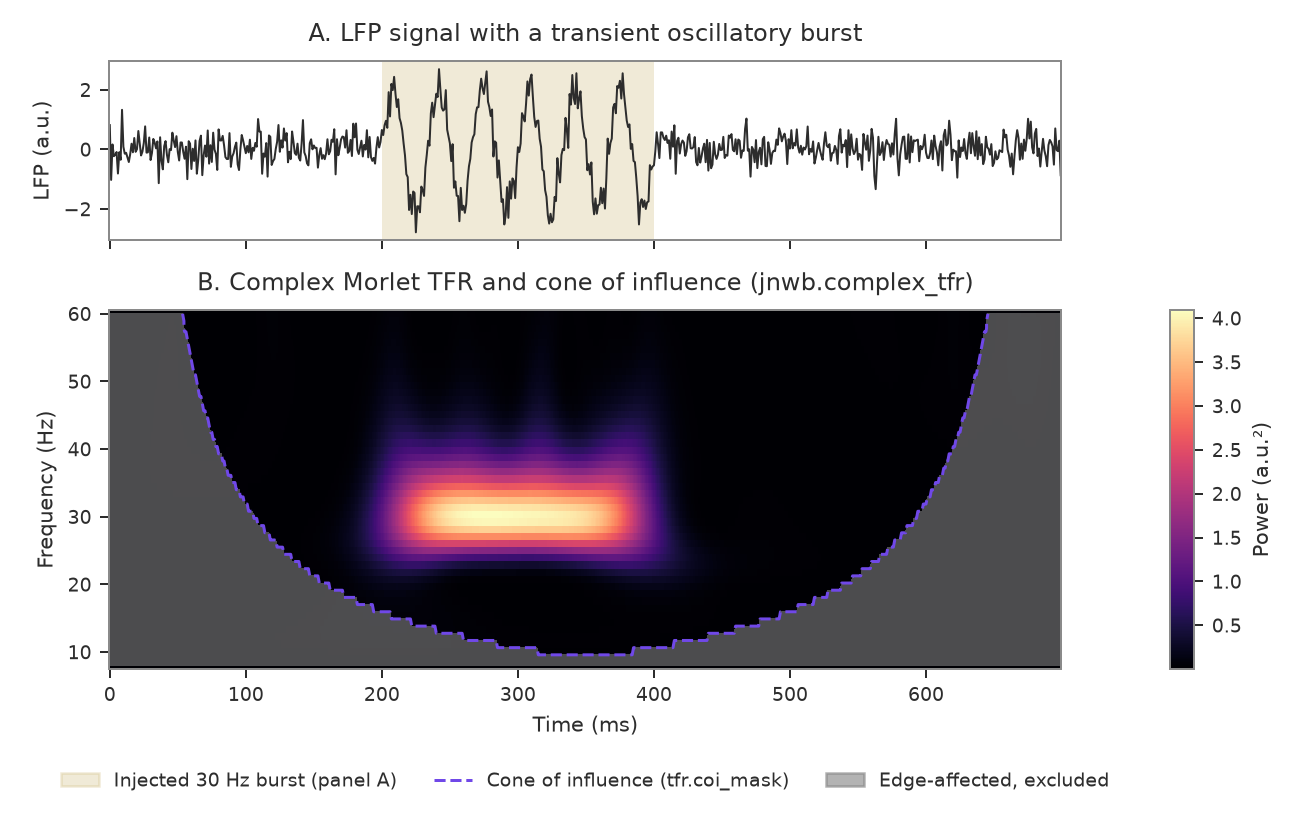
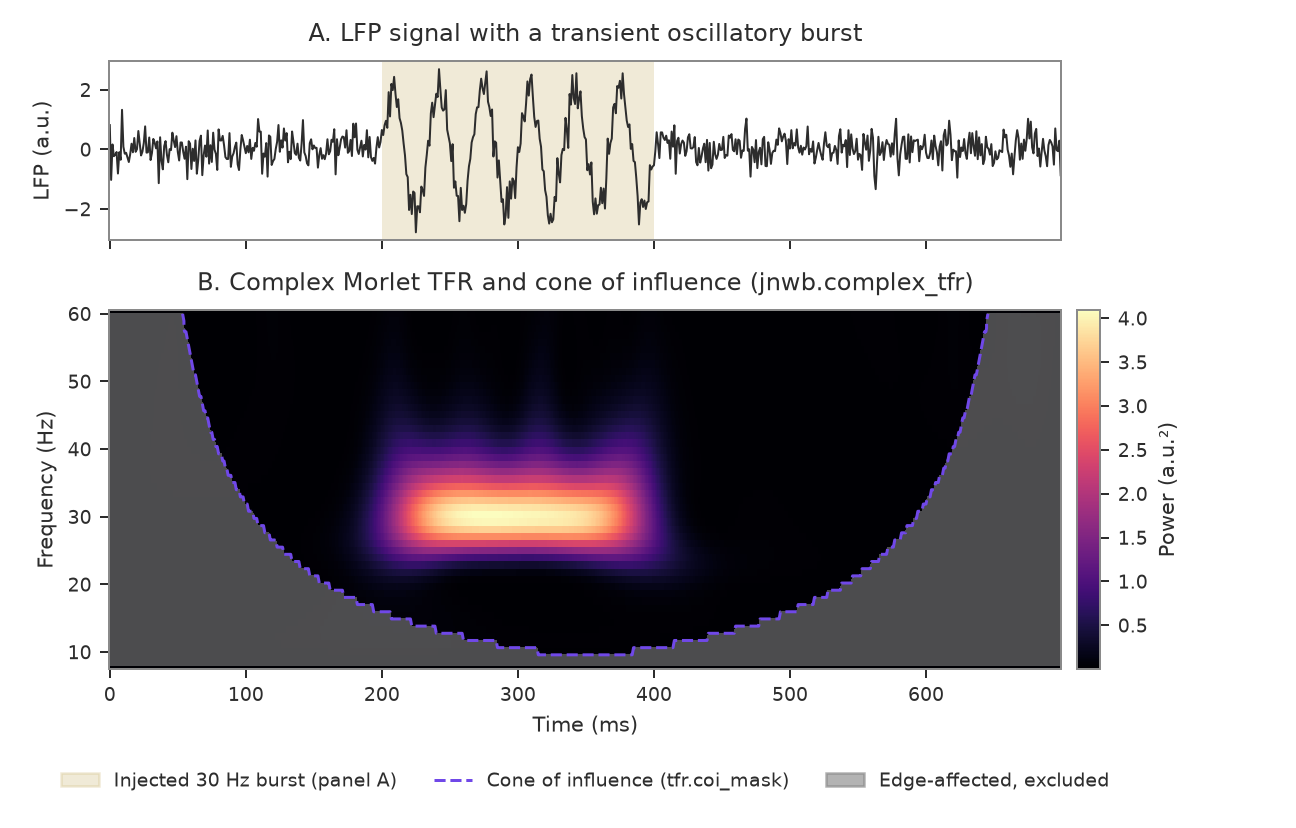
docs figures: shade the PSI bins the net value sums, link thumbnails to their pages
- fig09 shades the first to the last spectral bin inside the band, taken from the
  function's own frequencies, instead of the band's nominal edges. The points under the
  shading now sum to the net PSI (+0.563); under the old shading they summed to 0.694. A new
  test fails on the old shading.
- Each gallery thumbnail links to the topic page that shows its figure in the reader's theme.
  The raw PNG is transparent and a browser opens it on its own grey, where the dark variant's
  text is unreadable. The displayed-size rule counts a thumbnail at page width only for such a
  link, and a raw link to a figure fails the variant check again.
- docs/09 names nested_cv_linear_svm and says chance is drawn for AUC; that expected failure
  is cleared.
- The declared-unit check reads every line and every bar set; the two exclusions silenced no
  case.
- fig01 labels both panels "Channel index"; fig04 names the frequency it draws to and spaces
  "slope = -2.04".
- fig10 panel A stacks every channel of the contaminated trial, so it no longer repeats
  panel B; the fig05 colorbar sits next to the TFR it keys.

PNGs redrawn with Matplotlib 3.11.2.

Changed region(s): [[0.8333, 0.3623, 0.9877, 0.8152]]

diff --git a/tests/test_figure_form.py b/tests/test_figure_form.py
@@ -479,13 +479,10 @@ def _declared_unit_failures(fig, results) -> list[str]:
     declared = [r for r in results if isinstance(getattr(r, "unit", None), str)]
     hits = []
     for index, ax in enumerate(fig.axes):
-        # Lines drawn in data coordinates only: a reference line's ydata is in axes fractions.
-        drawn = [np.asarray(line.get_ydata(), float) for line in ax.get_lines()
-                 if line.get_transform() == ax.transData]
+        drawn = [np.asarray(line.get_ydata(), float) for line in ax.get_lines()]
         drawn = [y for y in drawn if y.size > 1 and np.ptp(y) > 0]
         bars = np.asarray([p.get_height() for p in ax.patches if isinstance(p, Rectangle)], float)
-        # Whole-number heights are counts, as in a histogram, not an estimate a result declares.
-        if bars.size and not np.all(bars == np.round(bars)):
+        if bars.size:
             drawn.append(bars)
         for r in declared:
             if any(np.isin(y, arr).all() for y in drawn for arr in _values(r) if arr.size):
@@ -798,8 +795,6 @@ AWAITING: dict[tuple[str, str], str] = {
     ("displayed size", "quickstart.md:jnwb_quickstart.png"): "5.8 pt text in an 11 in figure",
     ("style source", "quickstart_jnwb.py"): "a serif family and sizes typed per call",
     ("captions", "quickstart.md:jnwb_quickstart.png"): "the caption names no function",
-    ("captions", "09_decoding_and_visual_qc.md:fig07_population_decoding.png"):
-        "the caption does not name nested_cv_linear_svm",
 }
 
 
@@ -808,14 +803,26 @@ def _cases(check: str, names=NAMES):
             if (check, n) in AWAITING else pytest.param(n, id=n) for n in names]
 
 
+def _links_to_page_showing(href: str | None, stem: str) -> bool:
+    """A thumbnail counts at page width only when it links to the built page (`<page>/`) that
+    shows the same figure at page width in the reader's theme. A link to the PNG itself opens
+    it on the browser's own background, where one of the two variants is unreadable."""
+    if not href or not re.fullmatch(r"[\w-]+/", href):
+        return False
+    page = DOCS / f"{href[:-1]}.md"
+    return page.is_file() and bool(
+        re.search(rf"^!\[[^\]]*\]\({re.escape(stem)}\.png#only-light\)$",
+                  page.read_text(encoding="utf-8"), re.M))
+
+
 def _embeds():
     """Each light-scheme figure on a page: (page, figure file name, displayed width, caption)."""
     out = []
     for page in sorted(DOCS.rglob("*.md")):
         text = page.read_text(encoding="utf-8")
         captions = dict(figure_captions(text))
-        for match in re.finditer(r'(<a href="[^"]+">\s*)?<img src="(assets/[^"]+?)\.png#only-light"', text):
-            linked = bool(match.group(1))
+        for match in re.finditer(r'(?:<a href="([^"]+)">\s*)?<img src="(assets/[^"]+?)\.png#only-light"', text):
+            linked = _links_to_page_showing(match.group(1), match.group(2))
             in_table = text.rfind("<table", 0, match.start()) > text.rfind("</table>", 0, match.start())
             width = PAGE_WIDTH_PX if linked or not in_table else GALLERY_WIDTH_PX
             out.append((page.name, Path(match.group(2)).name + ".png", width,
@@ -869,7 +876,6 @@ def test_every_figure_on_a_page_has_both_variants():
         for page in sorted(DOCS.rglob("*.md"))
         for m in re.findall(r"[(\"](assets/(?:figures/[^)\s\"#]+|jnwb_quickstart[^)\s\"#]*)\.png)[)\"]",
                             page.read_text(encoding="utf-8"))
-        if not re.search(rf'<a href="{re.escape(m)}">', page.read_text(encoding="utf-8"))
     ]
     assert not bare, f"a figure shown the same under both schemes: {bare}"
 
@@ -1329,8 +1335,43 @@ def test_the_power_law_line_is_the_fit_of_the_spectrum_under_it(drawn):
     slope, intercept = np.polyfit(np.log10(fit_f), np.log10(at), 1)
     offset = np.max(np.abs(np.log10(fit) - (intercept + slope * np.log10(fit_f))))
     assert offset < 1e-6, f"the fit line is {offset:.3f} decades from the drawn spectrum's fit"
-    printed = float(re.search(r"slope=(-?\d+\.\d+)", lines["Power-law fit"].get_label()).group(1))
+    printed = float(re.search(r"slope\s*=\s*(-?\d+\.\d+)", lines["Power-law fit"].get_label()).group(1))
     assert printed == pytest.approx(slope, abs=0.005), (printed, slope)
+
+
+def _shaded_sum(ax, line):
+    """The drawn span labelled as summed, and the sum of the line's points inside it."""
+    spans = [p for p in ax.patches if p.get_label().startswith("Summed")]
+    assert len(spans) == 1, [p.get_label() for p in ax.patches]
+    xs = spans[0].get_path().transformed(spans[0].get_patch_transform()).vertices[:, 0]
+    x, y = (np.asarray(v, float) for v in line.get_data())
+    inside = (x >= xs.min()) & (x <= xs.max())
+    return float(y[inside].sum())
+
+
+def test_the_psi_shading_covers_exactly_the_bins_the_net_value_sums(drawn):
+    entry = drawn["fig09_directed_connectivity.png"]
+    ax = _axes_titled(entry.fig, "phase_slope_index")
+    psi = next(out for name, out in entry.calls["fig09_directed_connectivity"]
+               if name == "phase_slope_index")
+    line = next(ln for ln in ax.get_lines() if ln.get_label().startswith("Net PSI"))
+    assert _shaded_sum(ax, line) == pytest.approx(psi.x_to_y, abs=1e-9), (
+        "the points under the shading do not sum to the net PSI the function returned")
+
+
+def test_the_psi_shading_check_catches_the_nominal_band_edges(drawn):
+    entry = drawn["fig09_directed_connectivity.png"]
+    ax = _axes_titled(entry.fig, "phase_slope_index")
+    line = next(ln for ln in ax.get_lines() if ln.get_label().startswith("Net PSI"))
+    psi = next(out for name, out in entry.calls["fig09_directed_connectivity"]
+               if name == "phase_slope_index")
+    fig, wide = plt.subplots()
+    wide.plot(*line.get_data())
+    wide.axvspan(*psi.per_band["band"]["band_hz"], label="Summed band")
+    try:
+        assert _shaded_sum(wide, wide.get_lines()[0]) != pytest.approx(psi.x_to_y, abs=1e-3)
+    finally:
+        plt.close(fig)
 
 
 def test_the_psi_axis_carries_no_phase_slope_unit(drawn):

diff --git a/docs/generate_figures.py b/docs/generate_figures.py
@@ -115,7 +115,7 @@ def fig01_addressing():
         area = mapped_areas[i]
         ax1.annotate(f"Channels {i}-{i + 7}: {area}", xy=(0.12, i + 3.5), va="center",
                      fontsize=style.SMALL, color=C_DARK)
-    ax1.set_ylabel("Electrode contact index")
+    ax1.set_ylabel("Channel index")
     ax1.set_title("A. Area per contact\n(jnwb.map_peak_channel_to_area)", pad=8)
     ax1.invert_yaxis()
 
@@ -229,6 +229,8 @@ def fig03_onset():
 
 #: The rhythm fig04 adds to its aperiodic background.
 FIG04_RHYTHM_HZ = 10.0
+#: The highest frequency fig04 draws its spectrum to.
+FIG04_SHOWN_HZ = 119.0
 
 
 def fig04_spectral_tilt():
@@ -266,9 +268,10 @@ def fig04_spectral_tilt():
     f_fit = freqs[mask]
     fitted_psd = 10.0 ** (fit.offset - fit.exponent * np.log10(f_fit))
 
-    ax2.loglog(freqs[:119], psd[:119], color=C_GRAY, lw=1.0, label="Welch PSD")
+    shown = freqs <= FIG04_SHOWN_HZ
+    ax2.loglog(freqs[shown], psd[shown], color=C_GRAY, lw=1.0, label="Welch PSD")
     ax2.loglog(f_fit, fitted_psd, color=C_VIOLET, lw=1.8,
-               label=f"Power-law fit: slope={-fit.exponent:.2f}\n(R² = {fit.r_squared:.2f})")
+               label=f"Power-law fit: slope = {-fit.exponent:.2f}\n(R² = {fit.r_squared:.2f})")
     ax2.set_xlabel("Frequency (Hz)")
     ax2.set_ylabel("Power spectral density (a.u.²/Hz)")
     ax2.set_title("B. Aperiodic fit (jnwb.aperiodic_fit)", pad=8)
@@ -329,6 +332,9 @@ def fig05_complex_tfr():
     ], frameon=False, loc="upper center", bbox_to_anchor=(0.5, -0.24), ncol=3)
 
     fig.tight_layout()
+    # tight_layout spaces the colorbar column like a panel; close it up to the TFR it keys.
+    tfr_box = ax2.get_position()
+    cax.set_position([tfr_box.x1 + 0.012, tfr_box.y0, 0.018, tfr_box.height])
     _save(fig, "fig05_complex_tfr_coi.png")
     plt.close(fig)
 
@@ -532,9 +538,13 @@ def fig09_directed_connectivity():
     psi_freqs = psi.spectrum["psi_freqs"]
     psi_spec = psi.spectrum["psi_per_freq"]
     mask = (psi_freqs >= 5.0) & (psi_freqs <= 50.0)
-
-    ax2.axvspan(*PSI_BAND, color=C_GOLD, alpha=0.2, lw=0,
-                label=f"Summed band ({PSI_BAND[0]:.0f}-{PSI_BAND[1]:.0f} Hz)")
+    # The net value sums the slope terms between adjacent spectral bins inside the band, so the
+    # shading spans the first to the last of those bins, not the band's nominal edges.
+    f_lo, f_hi = psi.per_band["band"]["band_hz"]
+    freqs = psi.spectrum["freqs"]
+    summed = freqs[(freqs >= f_lo) & (freqs <= f_hi)]
+    ax2.axvspan(summed[0], summed[-1], color=C_GOLD, alpha=0.2, lw=0,
+                label=f"Summed bins ({summed[0]:.1f}–{summed[-1]:.1f} Hz)")
     ax2.plot(psi_freqs[mask], psi_spec[mask], color=C_VIOLET, lw=1.5, marker="o", ms=3.5,
              label=f"Net PSI = {psi.x_to_y:+.3f} (positive: X leads Y)")
     ax2.axhline(0, color=C_GRAY, ls="--", lw=0.8)
@@ -573,14 +583,17 @@ def fig10_artifact_repair():
     y_lim = (y_lo - 2.0, y_hi + 0.08 * (y_hi - y_lo))
     y_ticks = np.arange(0.0, y_hi, 10.0)
 
-    # Panel A: one channel of the contaminated trial
-    ax1.plot(t, raw, color=C_RED, lw=1.0, label="Raw (contaminated), channel 0")
+    # Panel A: every channel of the contaminated trial, stacked, so the artifact reads as
+    # synchronous across channels, which is what the detector scores
+    spacing = 1.2 * (y_hi - y_lo)
+    for ch in range(n_ch):
+        ax1.plot(t, seg[HIT_TRIAL, ch] + ch * spacing, color=C_RED, lw=0.8,
+                 label="Raw (contaminated), one trace per channel" if ch == 0 else None)
     ax1.set_xlabel("Time (ms)")
-    ax1.set_ylabel("LFP (a.u.)")
+    ax1.set_ylabel("Channel index")
+    ax1.set_yticks(np.arange(n_ch) * spacing, [str(ch) for ch in range(n_ch)])
     ax1.set_title(f"A. Injected synchronous artifact\n(trial {HIT_TRIAL}, "
                   f"peak z = {diag['synchrony_z_max']:.0f})", pad=8)
-    ax1.set_ylim(*y_lim)
-    ax1.set_yticks(y_ticks)
     ax1.legend(frameon=False, loc="upper center", bbox_to_anchor=(0.5, -0.2))
 
     # Panel B: the same channel before and after repair

diff --git a/docs/index.md b/docs/index.md
@@ -62,37 +62,37 @@ Synthetic, deterministic examples generated by `docs/generate_figures.py` from p
 <table>
   <tr>
     <td align="center" width="50%">
-      <a href="assets/figures/fig10_artifact_repair.png"><img src="assets/figures/fig10_artifact_repair.png#only-light" alt="Artifact repair" width="100%"></a>
-      <a href="assets/figures/fig10_artifact_repair.dark.png"><img src="assets/figures/fig10_artifact_repair.dark.png#only-dark" alt="Artifact repair" width="100%"></a>
+      <a href="05_artifact_detection_and_repair/"><img src="assets/figures/fig10_artifact_repair.png#only-light" alt="Artifact repair" width="100%"></a>
+      <a href="05_artifact_detection_and_repair/"><img src="assets/figures/fig10_artifact_repair.dark.png#only-dark" alt="Artifact repair" width="100%"></a>
       <sub>Artifact detection and trial repair (<code>repair_lfp_trials</code>)</sub>
     </td>
     <td align="center" width="50%">
-      <a href="assets/figures/fig05_complex_tfr_coi.png"><img src="assets/figures/fig05_complex_tfr_coi.png#only-light" alt="Complex TFR with COI" width="100%"></a>
-      <a href="assets/figures/fig05_complex_tfr_coi.dark.png"><img src="assets/figures/fig05_complex_tfr_coi.dark.png#only-dark" alt="Complex TFR with COI" width="100%"></a>
+      <a href="04_spectral_analysis_and_tfr/"><img src="assets/figures/fig05_complex_tfr_coi.png#only-light" alt="Complex TFR with COI" width="100%"></a>
+      <a href="04_spectral_analysis_and_tfr/"><img src="assets/figures/fig05_complex_tfr_coi.dark.png#only-dark" alt="Complex TFR with COI" width="100%"></a>
       <sub>Morlet TFR and cone of influence (<code>complex_tfr</code>)</sub>
     </td>
   </tr>
   <tr>
     <td align="center" width="50%">
-      <a href="assets/figures/fig09_directed_connectivity.png"><img src="assets/figures/fig09_directed_connectivity.png#only-light" alt="Directed connectivity" width="100%"></a>
-      <a href="assets/figures/fig09_directed_connectivity.dark.png"><img src="assets/figures/fig09_directed_connectivity.dark.png#only-dark" alt="Directed connectivity" width="100%"></a>
+      <a href="08_directed_connectivity_and_information/"><img src="assets/figures/fig09_directed_connectivity.png#only-light" alt="Directed connectivity" width="100%"></a>
+      <a href="08_directed_connectivity_and_information/"><img src="assets/figures/fig09_directed_connectivity.dark.png#only-dark" alt="Directed connectivity" width="100%"></a>
       <sub>Directed connectivity (<code>granger</code>, <code>phase_slope_index</code>)</sub>
     </td>
     <td align="center" width="50%">
-      <a href="assets/figures/fig03_onset_fitting.png"><img src="assets/figures/fig03_onset_fitting.png#only-light" alt="Onset fitting" width="100%"></a>
-      <a href="assets/figures/fig03_onset_fitting.dark.png"><img src="assets/figures/fig03_onset_fitting.dark.png#only-dark" alt="Onset fitting" width="100%"></a>
+      <a href="06_spikes_psth_and_onset_dynamics/"><img src="assets/figures/fig03_onset_fitting.png#only-light" alt="Onset fitting" width="100%"></a>
+      <a href="06_spikes_psth_and_onset_dynamics/"><img src="assets/figures/fig03_onset_fitting.dark.png#only-dark" alt="Onset fitting" width="100%"></a>
       <sub>Exponential onset fit (<code>fit_exponential_onset</code>)</sub>
     </td>
   </tr>
   <tr>
     <td align="center" width="50%">
-      <a href="assets/figures/fig08_permutation_null.png"><img src="assets/figures/fig08_permutation_null.png#only-light" alt="Permutation null" width="100%"></a>
-      <a href="assets/figures/fig08_permutation_null.dark.png"><img src="assets/figures/fig08_permutation_null.dark.png#only-dark" alt="Permutation null" width="100%"></a>
+      <a href="07_statistical_inference_and_nulls/"><img src="assets/figures/fig08_permutation_null.png#only-light" alt="Permutation null" width="100%"></a>
+      <a href="07_statistical_inference_and_nulls/"><img src="assets/figures/fig08_permutation_null.dark.png#only-dark" alt="Permutation null" width="100%"></a>
       <sub>Sign-flip null (<code>exact_sign_flip</code>, <code>permute_labels</code>)</sub>
     </td>
     <td align="center" width="50%">
-      <a href="assets/figures/fig07_population_decoding.png"><img src="assets/figures/fig07_population_decoding.png#only-light" alt="Population decoding" width="100%"></a>
-      <a href="assets/figures/fig07_population_decoding.dark.png"><img src="assets/figures/fig07_population_decoding.dark.png#only-dark" alt="Population decoding" width="100%"></a>
+      <a href="09_decoding_and_visual_qc/"><img src="assets/figures/fig07_population_decoding.png#only-light" alt="Population decoding" width="100%"></a>
+      <a href="09_decoding_and_visual_qc/"><img src="assets/figures/fig07_population_decoding.dark.png#only-dark" alt="Population decoding" width="100%"></a>
       <sub>Nested-CV linear decoding (<code>nested_cv_linear_svm</code>)</sub>
     </td>
   </tr>

diff --git a/docs/documentation_form.md b/docs/documentation_form.md
@@ -146,7 +146,7 @@ sentence the rule asks for:
 | `common_mistakes` | 2461 | eleven failure modes, each with a wrong form, a correct form and the reason; cutting one removes a failure mode rather than words |
 | `02_paths_addressing_metadata` | 1754 | four unrelated subsystems — paths, streaming, addressing, metadata — on one page. The excess is a split, not a trim, and a split is not this rule's business |
 | `04_spectral_analysis_and_tfr` | 1988 | same shape: PSD, decibel formation, coherence and Morlet TFR share a page |
-| `index` | 417 | markup, not prose: each gallery thumbnail is a link to its full-size figure, which is what makes the figure readable, and `wc -w` counts every tag attribute as a word |
+| `index` | 417 | markup, not prose: each gallery thumbnail links to the page that shows its figure at full width, which is what makes the figure readable, and `wc -w` counts every tag attribute as a word |
 | `errors` | 1739 | twelve error classes, each with its verbatim message, and the table of what a read returns for each on-disk state of `session_description`. The messages are pinned to the source, so they are not paraphrasable |
 
 ## Navigation

diff --git a/docs/09_decoding_and_visual_qc.md b/docs/09_decoding_and_visual_qc.md
@@ -62,7 +62,7 @@ estimator. Applying them means fitting your own estimator over the trial ids the
 ![Nested Cross-Validated Population Decoding](assets/figures/fig07_population_decoding.dark.png#only-dark)
 
 Panel A of that figure is the per-fold accuracy drawn against `majority_baseline_accuracy`,
-which is the comparison the paragraph above asks for. Panel B is the out-of-fold AUC and F1 against chance. Both
+which is the comparison the paragraph above asks for. Panel B is `jnwb.nested_cv_linear_svm`'s out-of-fold AUC against its chance of 0.5, and its F1. Both
 are row-wise folds on synthetic data, so the number is the upper bound described above, not a
 grouped result.
 

diff --git a/docs/05_artifact_detection_and_repair.md b/docs/05_artifact_detection_and_repair.md
@@ -29,7 +29,7 @@ graph TD
 ![Multichannel LFP Artifact Detection and Repair](assets/figures/fig10_artifact_repair.png#only-light)
 ![Multichannel LFP Artifact Detection and Repair](assets/figures/fig10_artifact_repair.dark.png#only-dark)
 
-Panel A of that figure is one synthetic trial carrying an injected synchronous excursion, with the peak
+Panel A of that figure is the eight channels of one synthetic trial carrying an injected synchronous excursion, with the peak
 synchrony z-score the detector reports; panel B overlays `jnwb.repair_lfp_trials` on the same
 trial, so what the substitution changed and what it left alone are read off one pair of traces.
 
